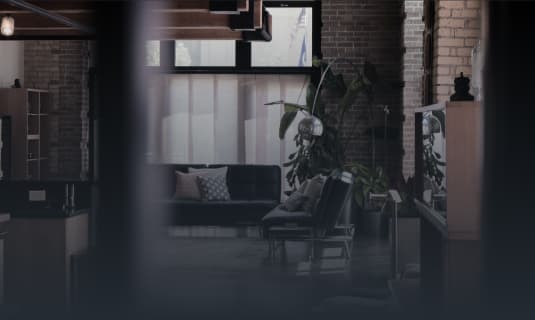
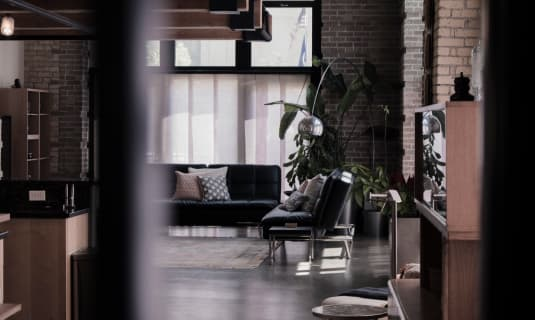
Add final price section

diff --git a/index.html b/index.html
@@ -39,7 +39,7 @@
     </header>
     <main>
       <!-- Hero section -->
-      <section class="section">
+      <section class="section hero-section">
         <div class="container hero-container">
           <h1 class="hero-title">Житловий комплекс в історичному центрі</h1>
           <svg class="mouse-icon" width="40" height="40" aria-hidden="true">
@@ -96,11 +96,11 @@
       <!-- Appartments section -->
       <section class="section">
         <div class="container">
-          <h2>Наші квартири</h2>
-          <ul class="appart-lists">
-            <li class="appart-list">
+          <h2 class="appartments-title">Наші квартири</h2>
+          <ul class="appart-list">
+            <li class="appart-item">
               <img
-                src="./img/loft3.jpg"
+                src="./img/loft1.jpg"
                 alt="Стандарт"
                 class="appart-img"
                 width="535"
@@ -108,7 +108,7 @@
               />
               <p class="appart-text">Стандарт - 1 поверх</p>
             </li>
-            <li class="appart-list">
+            <li class="appart-item">
               <img
                 src="./img/loft2.jpg"
                 alt="Комфорт"
@@ -118,11 +118,11 @@
               />
               <p class="appart-text">Комфорт - 2 поверхи</p>
             </li>
-            <li class="appart-list">
-              <img src="./img/loft3.jpg" alt="Люкс" class="appart-img" width="535" height="320" />
+            <li class="appart-item">
+              <img src="./img/loft1.jpg" alt="Люкс" class="appart-img" width="535" height="320" />
               <p class="appart-text">Люкс - 3 поверхи</p>
             </li>
-            <li class="appart-list">
+            <li class="appart-item">
               <img
                 src="./img/loft2.jpg"
                 alt="Супер Люкс"
@@ -138,8 +138,8 @@
       <!-- Prices section -->
       <section class="section">
         <div class="container">
-          <h2>Ціни</h2>
-          <table>
+          <h2 class="prices-title">Ціни</h2>
+          <table class="prices-table">
             <caption>
               Каталог типів квартир за ціною
             </caption>
@@ -185,8 +185,8 @@
       <!-- Call to action section -->
       <section class="section">
         <div class="container">
-          <h2>Хочете подивитися?</h2>
-          <p>
+          <h2 class="cta-title">Хочете подивитися?</h2>
+          <p class="cta-decr">
             Житловий комплекс в історичному центрі міста HouseVOP завершив будівництво та здав
             об’єкт в експлаутацію <time datetime="2021-03-11">11 березня 2021</time> року. Якщо ви
             маєте бажання подивитися квартиру, чекаємо на Вас. Тут просто повинен бути будь-який
@@ -197,12 +197,37 @@
           <div class="form-container">
             <form action="#" class="form">
               <div class="form-field">
-                <label for="user-name" class="field-name">Ім'я</label>
-                <input required type="text" class="field-input" id="user-name" name="Ваше ім'я" />
+                <label for="user-name" class="field-name">Введіть ім’я *</label>
+                <input
+                  required
+                  type="text"
+                  class="field-input"
+                  id="user-name"
+                  name="Ваше ім'я"
+                  placeholder="Тарас"
+                />
               </div>
               <div class="form-field">
-                <label for="user-tel" class="field-name">Телефон</label>
-                <input required type="tel" class="field-input" id="user-tel" name="Ваш телефон" />
+                <label for="user-email" class="field-name">Введіть e-mail *</label>
+                <input
+                  required
+                  type="email"
+                  class="field-input"
+                  id="user-email"
+                  name="Ваш електронний адрес"
+                  placeholder="example@gmail.com"
+                />
+              </div>
+              <div class="form-field">
+                <label for="user-tel" class="field-name">Введіть телефон</label>
+                <input
+                  required
+                  type="tel"
+                  class="field-input"
+                  id="user-tel"
+                  name="Ваш телефон"
+                  placeholder="068 354 44 81"
+                />
               </div>
               <button class="form-btn">Подивитися район</button>
             </form>
@@ -246,11 +271,25 @@
           <form action="#" class="form">
             <div class="form-field">
               <label for="user-name" class="field-name">Ім'я</label>
-              <input required type="text" class="field-input" id="user-name" name="Ваше ім'я" />
+              <input
+                required
+                type="text"
+                class="field-input"
+                id="user-name"
+                name="Ваше ім'я"
+                placeholder="Ваше ім'я"
+              />
             </div>
             <div class="form-field">
               <label for="user-tel" class="field-name">Телефон</label>
-              <input required type="tel" class="field-input" id="user-tel" name="Ваш телефон" />
+              <input
+                required
+                type="tel"
+                class="field-input"
+                id="user-tel"
+                name="Ваш телефон"
+                placeholder="Ваш телефон"
+              />
             </div>
             <button class="form-btn">Подивитися район</button>
           </form>

diff --git a/css/style.css b/css/style.css
@@ -42,6 +42,7 @@ h3 {
 .main-nav {
   display: flex;
   justify-content: space-between;
+  align-items: center;
 }
 .nav-list {
   display: flex;
@@ -61,12 +62,31 @@ h3 {
   line-height: 1.14;
   letter-spacing: 0.05em;
 }
+.subnav-list {
+  display: none;
+}
+.nav-item:hover .subnav-list {
+  display: block;
+}
+
 .subnav-link {
   font-size: 14px;
   line-height: 1.14;
   letter-spacing: 0.05em;
 }
 /* Hero Section */
+.hero-section {
+  background-image: linear-gradient(
+      180deg,
+      var(--background-color) 6.56%,
+      rgba(36, 43, 51, 0.3) 50.31%,
+      var(--background-color) 89.37%
+    ),
+    url(../img/backgraund-hero.jpg);
+  background-position: center;
+  background-repeat: no-repeat;
+  background-size: cover;
+}
 .hero-container {
   text-align: center;
 }
@@ -118,7 +138,7 @@ h3 {
   margin-bottom: 54px;
 }
 .feature-text {
-  max-width: 154px;
+  max-width: 152px;
 
   font-family: 'Roboto';
   font-weight: 300;
@@ -127,9 +147,60 @@ h3 {
 }
 
 /* Appartments Section */
+.appartments-title {
+  margin-bottom: 100px;
+
+  font-size: 36px;
+  line-height: 1.33;
+}
+.appart-list {
+  display: flex;
+  flex-wrap: wrap;
+}
+.appart-item {
+}
+.appart-img {
+  width: 100%;
+}
+.appart-text {
+  font-size: 24px;
+  line-height: 1.17;
+}
 
 /* Prices Section */
+.prices-title {
+  margin-bottom: 40px;
 
+  font-size: 36px;
+  line-height: 1.33;
+}
+.prices-table {
+  width: 100%;
+  border-collapse: collapse;
+}
+.prices-table caption {
+  margin-bottom: 22px;
+  text-align: left;
+
+  font-size: 24px;
+  line-height: 1.67;
+}
+.prices-table td,
+.prices-table th {
+  font-size: 24px;
+  line-height: 1.67;
+
+  padding: 8px 18px;
+  border: 1px solid var(--white-color);
+  text-align: left;
+}
+
+.prices-table thead,
+.prices-table tfoot {
+  font-weight: 700;
+
+  background-color: rgba(255, 255, 255, 0.1);
+}
 /* Call to action Section */
 
 /* Video overview Section */
